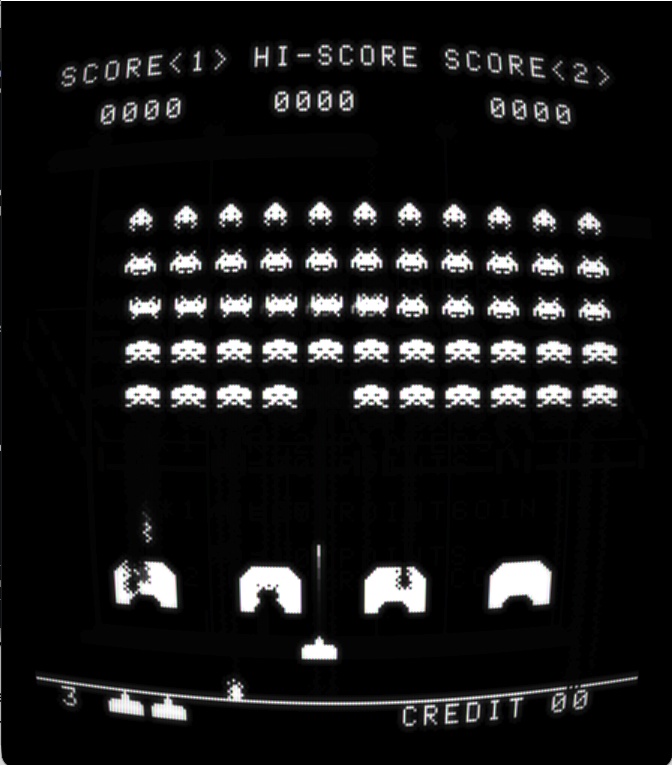
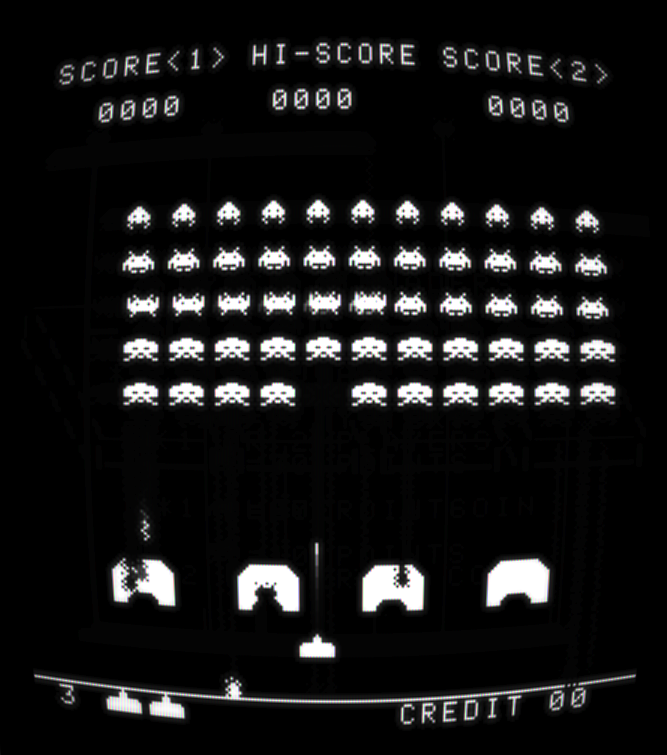
Update website screenshot with a tighter crop

diff --git a/docs/styles.css b/docs/styles.css
@@ -54,8 +54,8 @@ body {
 .screen img {
     display: block;
     width: auto;
-    height: min(765px, calc(100vh - 2 * var(--gutter)));
-    aspect-ratio: 672 / 765;
+    height: min(755px, calc(100vh - 2 * var(--gutter)));
+    aspect-ratio: 667 / 755;
     border-radius: 10px;
 }
 
@@ -208,7 +208,7 @@ footer {
 
     .screen img {
         width: 100%;
-        max-width: 672px;
+        max-width: 667px;
         height: auto;
     }
 

diff --git a/docs/index.html b/docs/index.html
@@ -14,7 +14,7 @@
         </h1>
 
         <figure class="screen">
-            <img src="images/screenshot.png" width="672" height="765"
+            <img src="images/screenshot.png" width="667" height="755"
                  alt="Space Invaders running in the 8080 emulator, with a curved, glowing CRT picture" />
         </figure>
 
